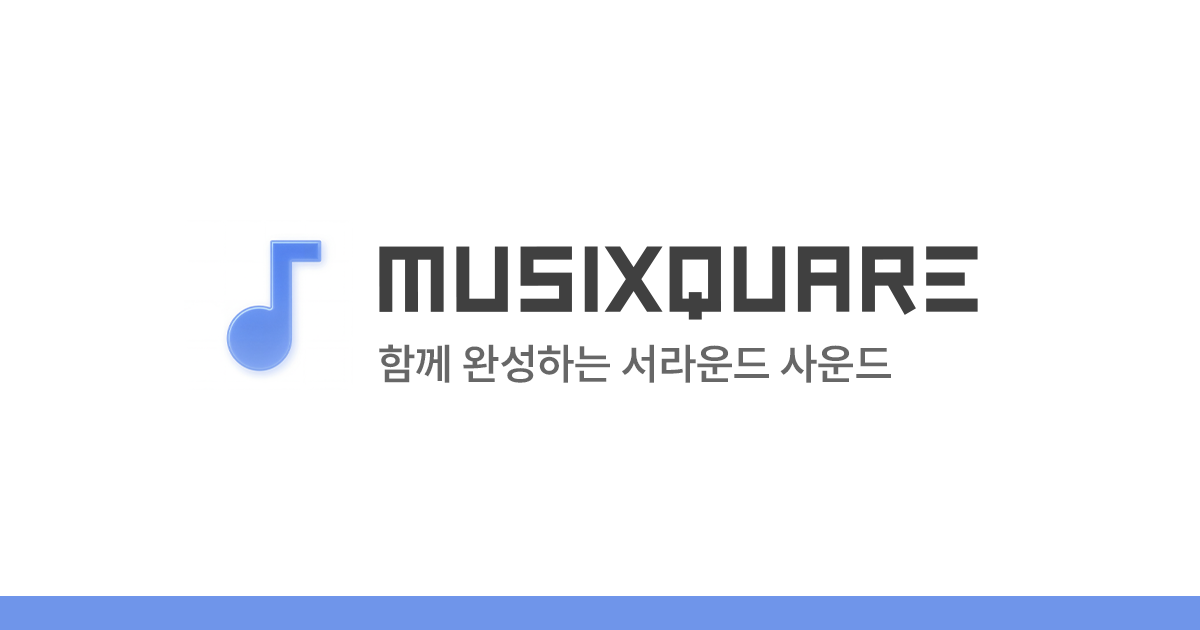
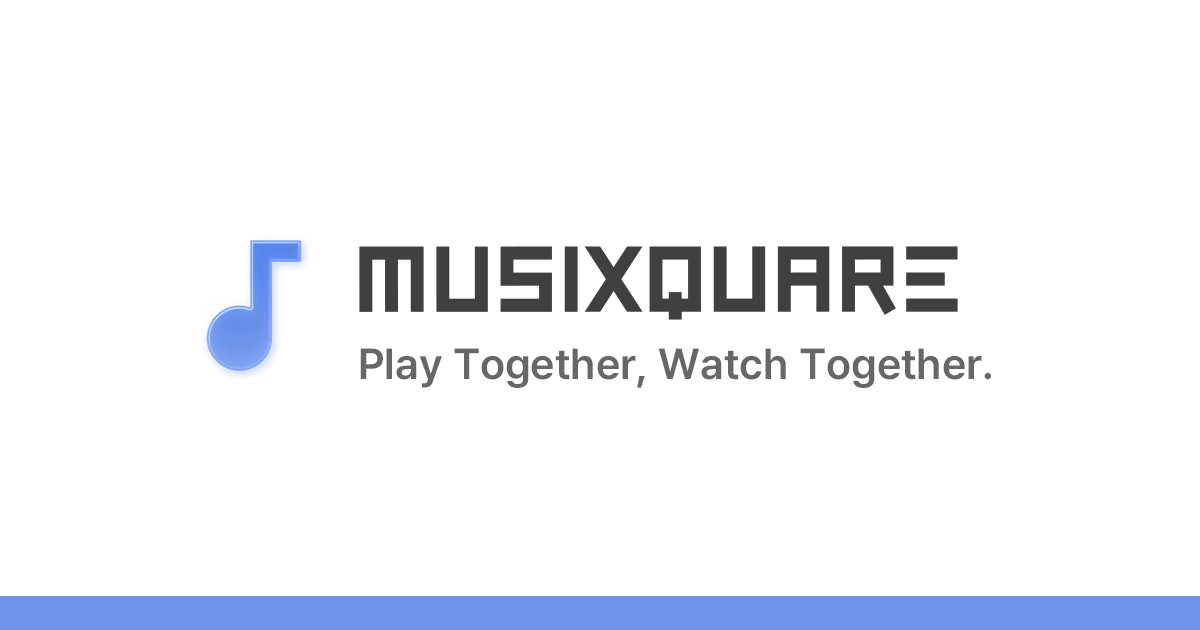
chore(meta): bilingual title/description + english og-image
OG/Twitter/meta tags now lead with English followed by Korean so PH and
Twitter share cards read cleanly for non-Korean audiences while KakaoTalk
previews retain Korean recognition. og:locale:alternate=en_US added
alongside ko_KR primary. og:image swapped to the English variant
("Play Together, Watch Together.") — covers both audio and YouTube
Together modes, unlike the Korean subtitle which only mentioned surround.

Changed region(s): [[0.1542, 0.3619, 0.8325, 0.6032], [0.2775, 0.5429, 0.8325, 0.6333], [0.8017, 0.4524, 0.8325, 0.5127]]

diff --git a/index.html b/index.html
@@ -63,21 +63,23 @@
     <meta name="google-site-verification" content="7fu3Buf9PDMn-9nYRnTCz5-Xx14d4gQAM90ZY5wdfQE" />
     <meta name="google-site-verification" content="coyQjmtD4yeX5jE4nThOTTJ0QUkAkAFNPeR-8QR2H2k" />
     <meta name="naver-site-verification" content="34352e8940f2fd7c67d54d6641555dbcc89ba39f" />
-    <meta property="og:title" content="MUSIXQUARE - 뮤직스퀘어">
-    <meta property="og:description" content="여러 기기를 연결해 동기화된 서라운드 사운드를 만들어 보세요.">
+    <meta property="og:title" content="MUSIXQUARE · 뮤직스퀘어">
+    <meta property="og:description" content="Multi-device synchronized audio — no install. 여러 기기로 만드는 서라운드 사운드.">
     <meta property="og:type" content="website">
     <meta property="og:site_name" content="MUSIXQUARE">
     <meta property="og:locale" content="ko_KR">
+    <meta property="og:locale:alternate" content="en_US">
     <meta property="og:url" content="https://musixquare.com/">
     <meta property="og:image" content="https://musixquare.com/og-image.png">
     <meta property="og:image:width" content="1200">
     <meta property="og:image:height" content="630">
+    <meta property="og:image:alt" content="MUSIXQUARE — Play Together, Watch Together">
     <meta name="twitter:card" content="summary_large_image">
-    <meta name="twitter:title" content="MUSIXQUARE">
-    <meta name="twitter:description" content="여러 기기를 연결해 동기화된 서라운드 사운드를 만들어 보세요.">
+    <meta name="twitter:title" content="MUSIXQUARE · 뮤직스퀘어">
+    <meta name="twitter:description" content="Multi-device synchronized audio — no install. 여러 기기로 만드는 서라운드 사운드.">
     <meta name="twitter:image" content="https://musixquare.com/og-image.png">
-    <title>MUSIXQUARE - 뮤직스퀘어</title>
-    <meta name="description" content="MUSIXQUARE - 여러 기기를 연결해 동기화된 서라운드 사운드를 만들어 보세요.">
+    <title>MUSIXQUARE · 뮤직스퀘어</title>
+    <meta name="description" content="Turn phones, tablets, desktops into a synchronized wireless audio system. 여러 기기를 연결해 동기화된 서라운드 사운드를 만들어 보세요.">
     <link rel="icon" href="/icons/icon-48.png" sizes="48x48" type="image/png">
     <link rel="icon" href="/favicon.ico" sizes="any">
     <link rel="icon" href="/favicon.svg" type="image/svg+xml">
